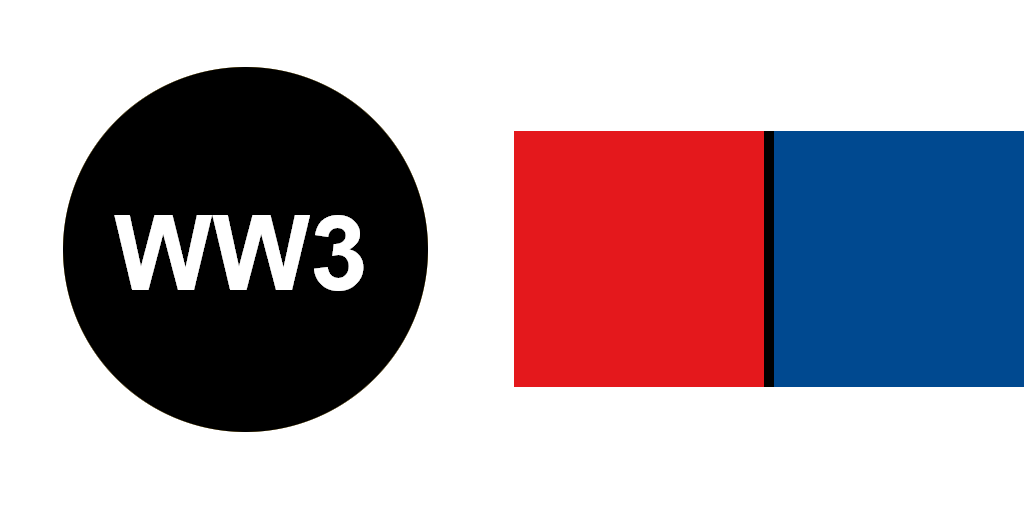
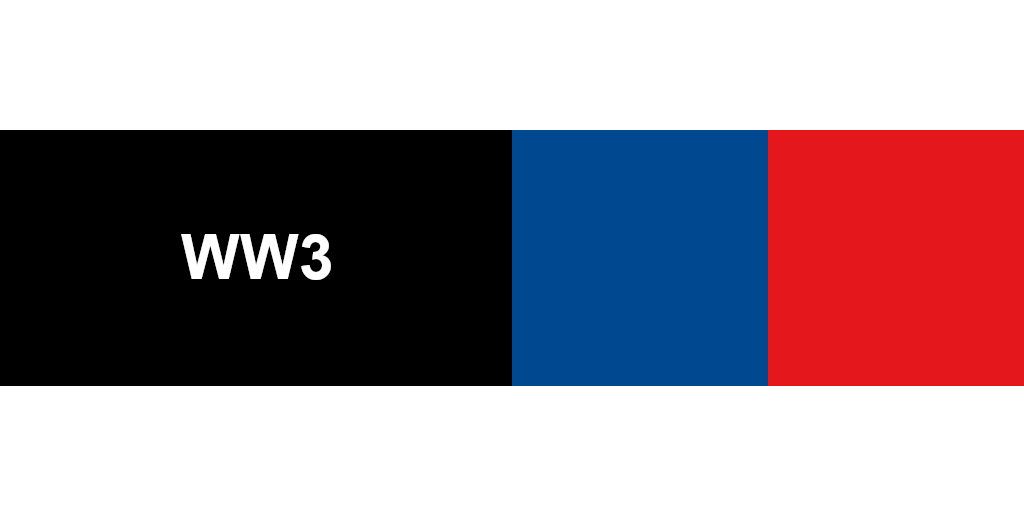
Loadscreen and structures have small visual range now

diff --git a/engine/OpenRA.Mods.Common/LoadScreens/LogoStripeLoadScreen.cs b/engine/OpenRA.Mods.Common/LoadScreens/LogoStripeLoadScreen.cs
@@ -44,8 +44,8 @@ namespace OpenRA.Mods.Common.LoadScreens
 				lastSheet = s;
 				lastDensity = density;
 				logo = CreateSprite(s, density, new Rectangle(0, 0, 256, 256));
-				stripeRight = CreateSprite(s, density, new Rectangle(258, 0, 120, 256));
-				stripeLeft = CreateSprite(s, density, new Rectangle(518, 0, 120, 256));
+				stripeLeft = CreateSprite(s, density, new Rectangle(256, 0, 128, 256));
+				stripeRight = CreateSprite(s, density, new Rectangle(512, 0, 128, 256));
 			}
 
 			if (r.Resolution != lastResolution)
